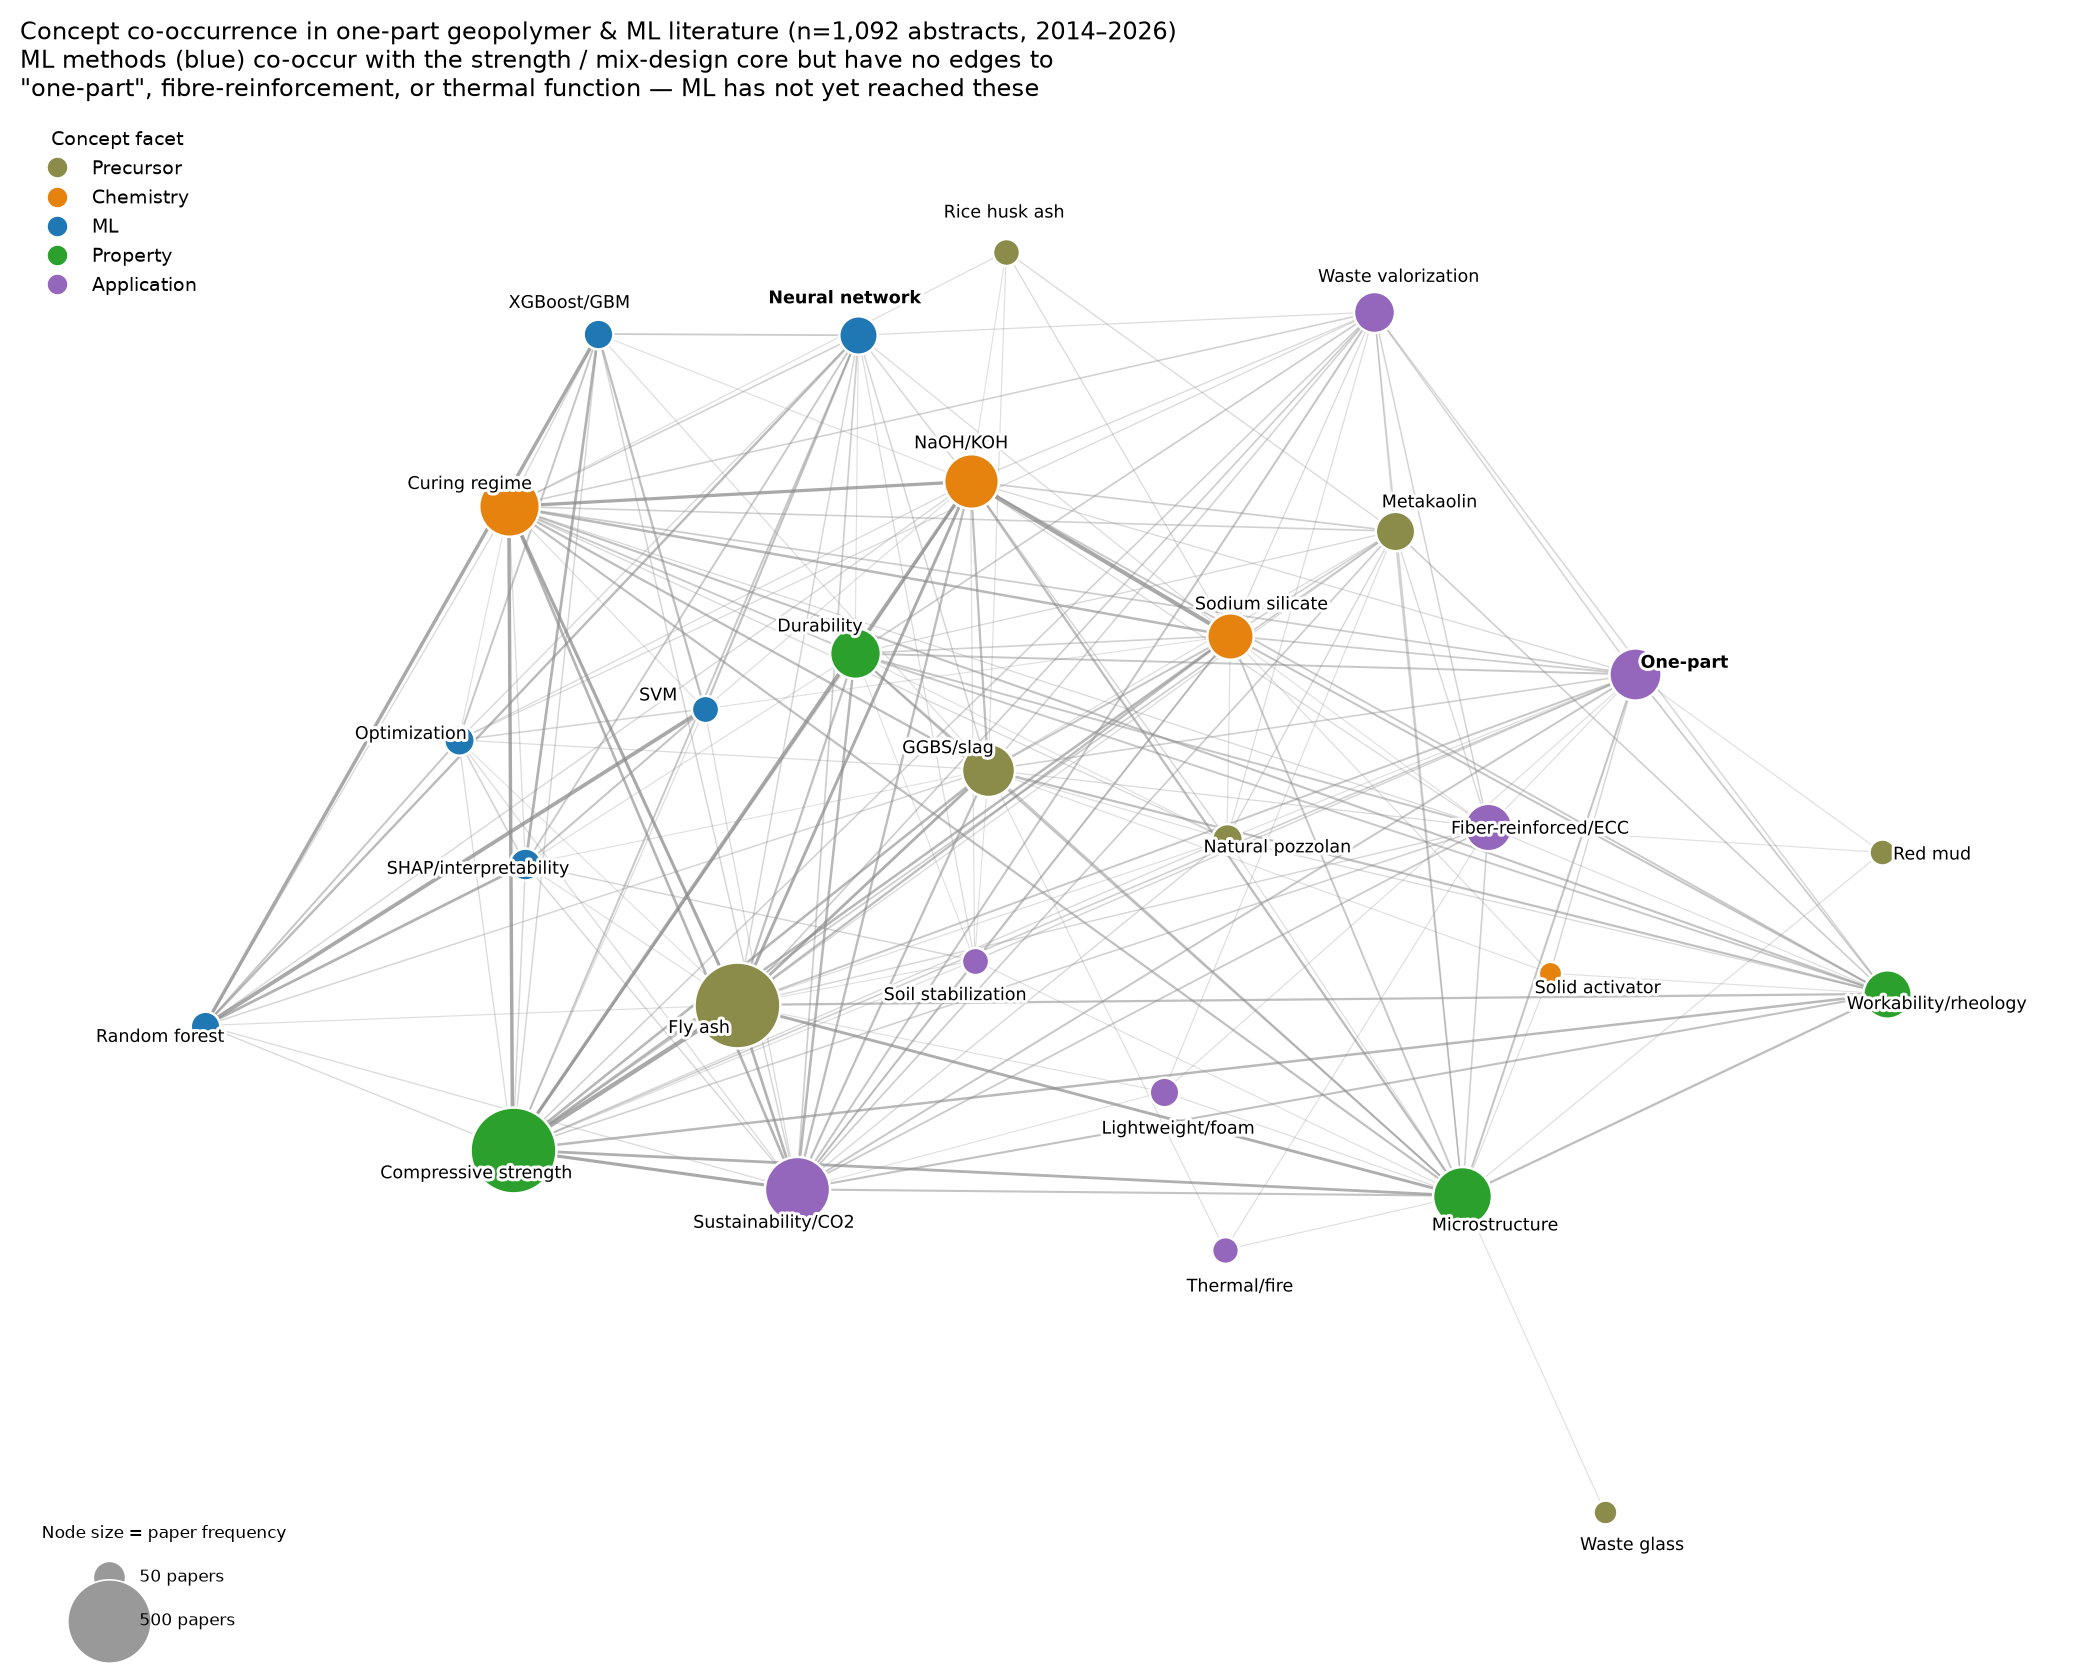
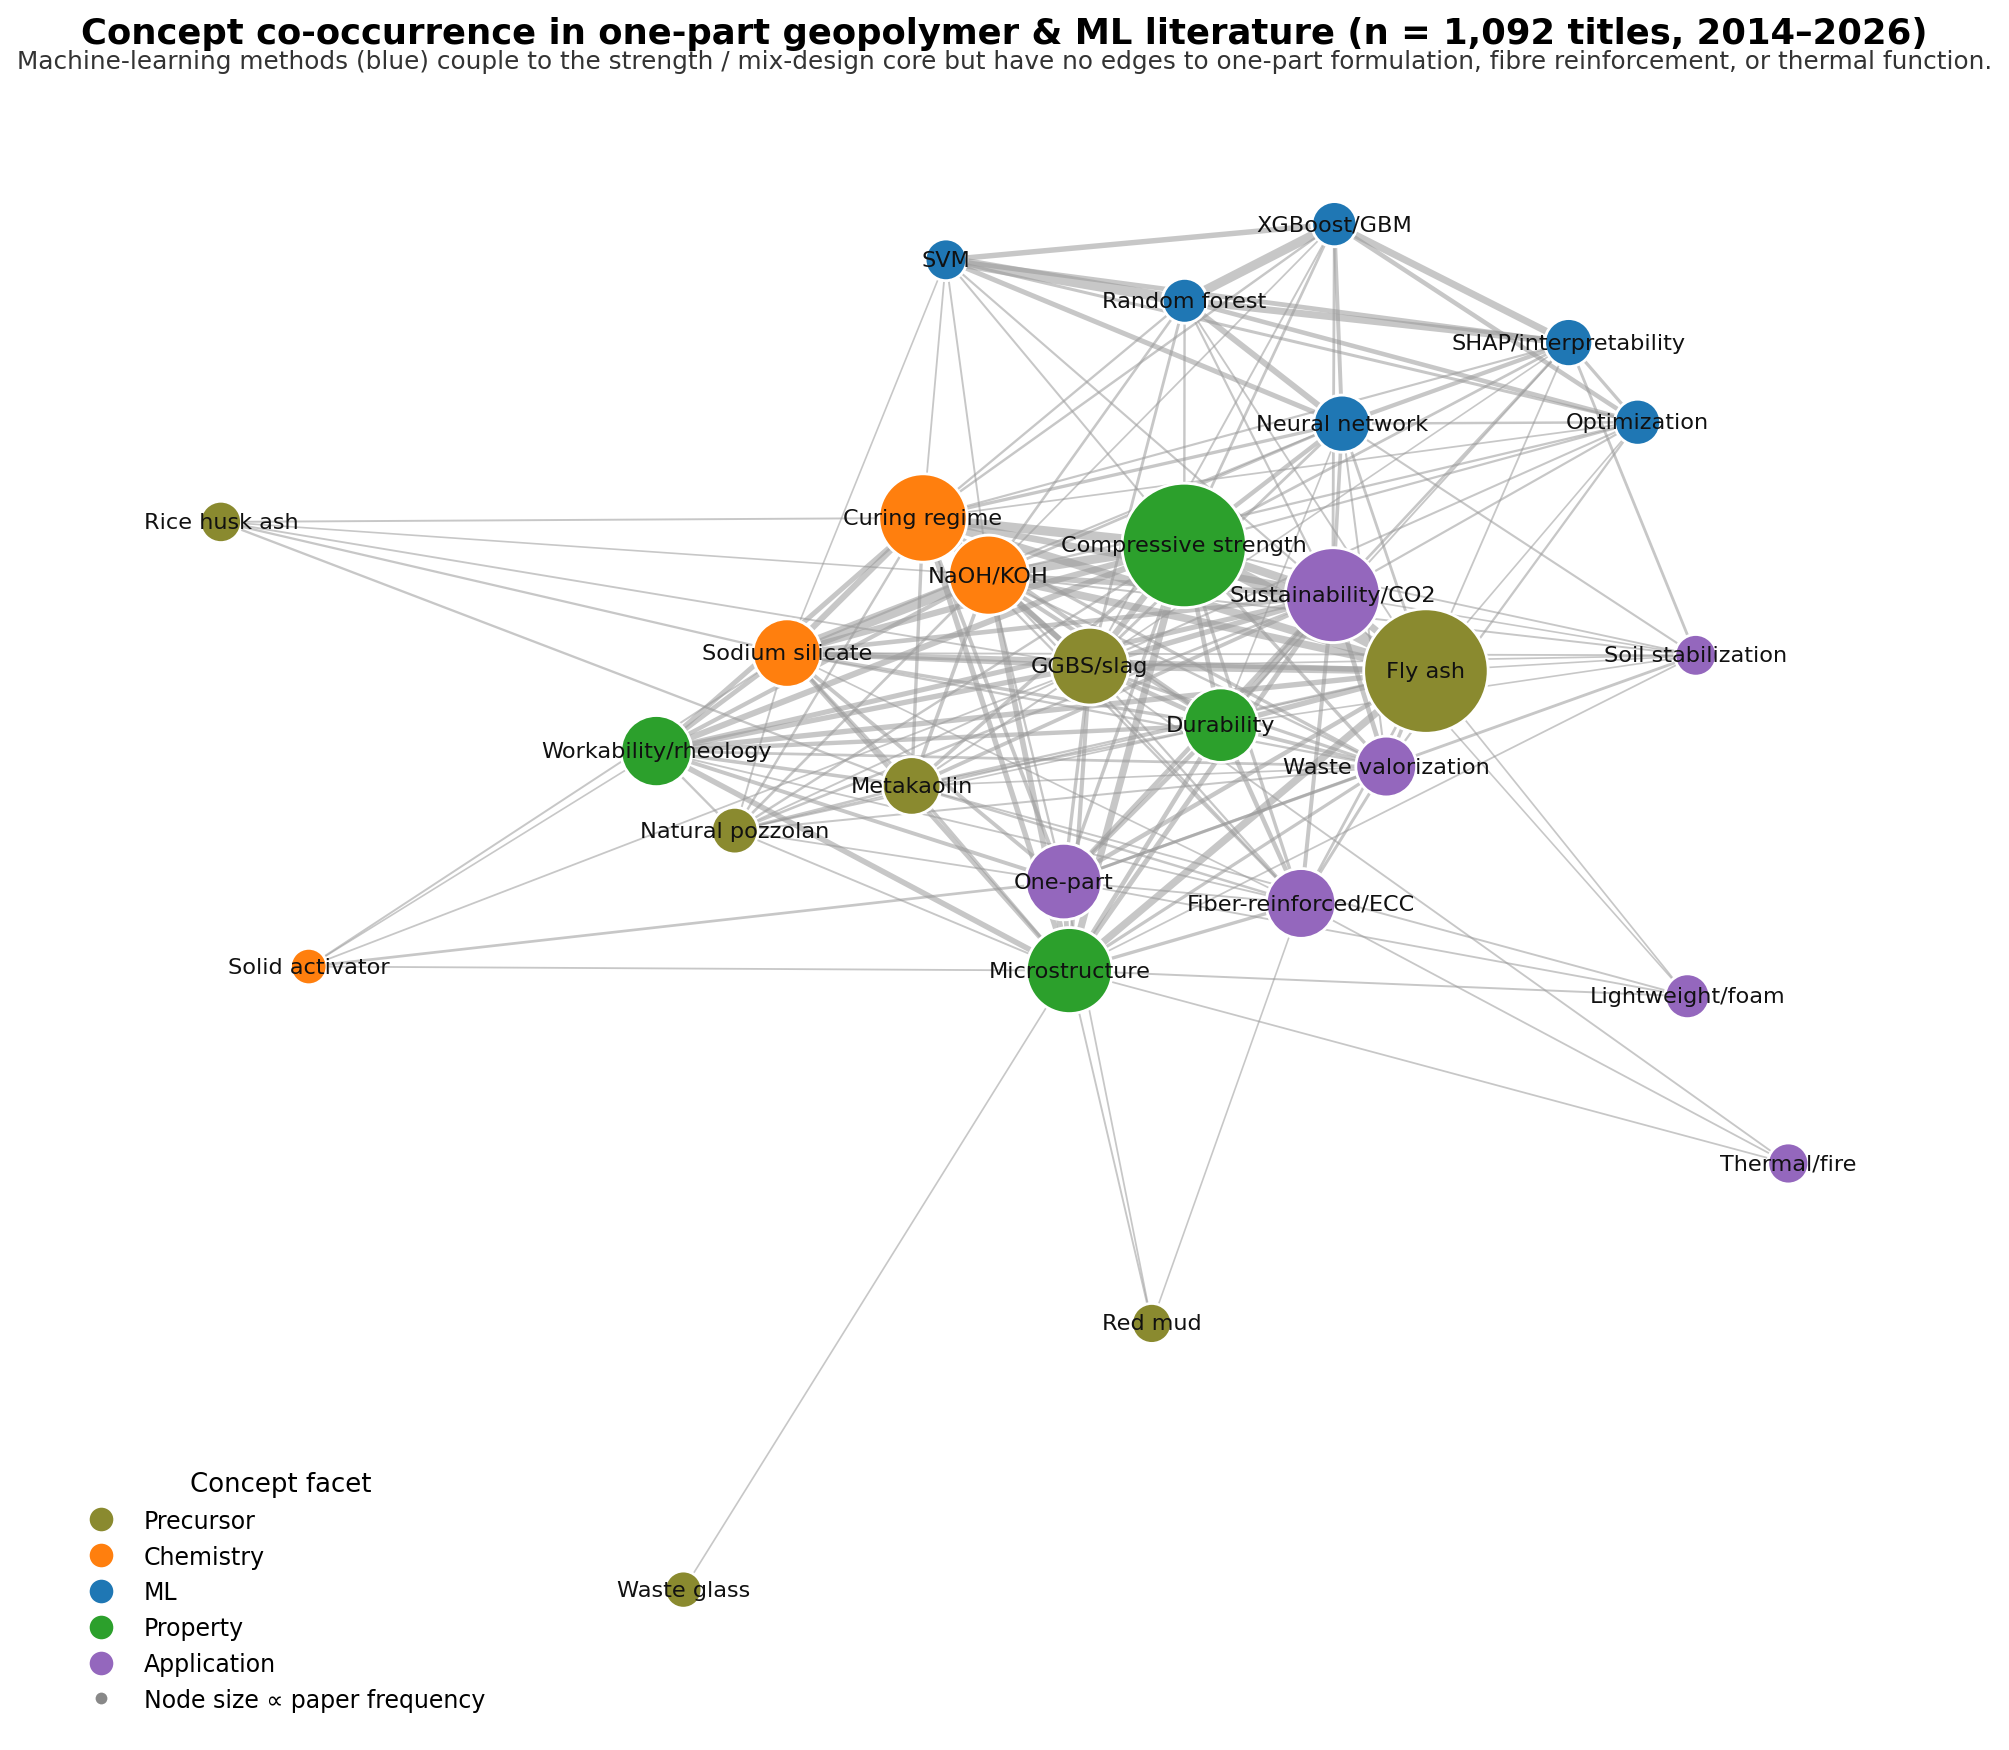
Regenerate Figure 2 from data with corrected title-based label
- Add ml/plot_concept_network.py: reproducible regeneration of the concept
  co-occurrence network from data/concept_network_{nodes,edges}.csv
- Figure title now reads 'n = 1,092 titles' (was 'abstracts'), matching the
  title-based methodology; improved node spacing and legend

diff --git a/ml/plot_concept_network.py b/ml/plot_concept_network.py
@@ -1,0 +1,111 @@
+#!/usr/bin/env python3
+"""
+Regenerate Figure 2 — the concept co-occurrence network — from the archived
+network data (data/concept_network_nodes.csv, data/concept_network_edges.csv).
+
+The corpus stores title-level metadata (abstracts were not retained), so the
+co-occurrence is title-based; the figure title reflects this ("titles", not
+"abstracts").
+
+Usage:
+    python plot_concept_network.py \
+        --nodes ../data/concept_network_nodes.csv \
+        --edges ../data/concept_network_edges.csv \
+        --out ../manuscript/figures/figure2_concept_network.png
+"""
+from __future__ import annotations
+import argparse
+import matplotlib
+matplotlib.use("Agg")
+import matplotlib.pyplot as plt
+from matplotlib.lines import Line2D
+import networkx as nx
+import pandas as pd
+
+SEED = 42
+
+# Facet -> colour (matches the main-text description: ML methods in blue)
+FACET_COLORS = {
+    "Precursor":   "#8a8a2f",  # olive
+    "Chemistry":   "#ff7f0e",  # orange
+    "ML":          "#1f77b4",  # blue
+    "Property":    "#2ca02c",  # green
+    "Application": "#9467bd",  # purple
+}
+FACET_ORDER = ["Precursor", "Chemistry", "ML", "Property", "Application"]
+
+
+def build_graph(nodes: pd.DataFrame, edges: pd.DataFrame) -> nx.Graph:
+    G = nx.Graph()
+    for _, r in nodes.iterrows():
+        G.add_node(r["concept"], facet=r["facet"],
+                   paper_freq=float(r["paper_freq"]))
+    for _, r in edges.iterrows():
+        if r["source"] in G and r["target"] in G:
+            G.add_edge(r["source"], r["target"], weight=float(r["jaccard"]))
+    return G
+
+
+def main():
+    ap = argparse.ArgumentParser()
+    ap.add_argument("--nodes", default="../data/concept_network_nodes.csv")
+    ap.add_argument("--edges", default="../data/concept_network_edges.csv")
+    ap.add_argument("--out", default="../manuscript/figures/figure2_concept_network.png")
+    args = ap.parse_args()
+
+    nodes = pd.read_csv(args.nodes)
+    edges = pd.read_csv(args.edges)
+    G = build_graph(nodes, edges)
+
+    # Spring layout weighted by Jaccard co-occurrence; fixed seed for reproducibility
+    # Unweighted spring layout spreads the strongly-connected hub apart more
+    # evenly than a Jaccard-weighted one (which collapses the core).
+    pos = nx.spring_layout(G, weight=None, k=2.2, iterations=500, seed=SEED)
+
+    freqs = nx.get_node_attributes(G, "paper_freq")
+    facets = nx.get_node_attributes(G, "facet")
+    # node area proportional to paper frequency
+    fmax = max(freqs.values())
+    sizes = [180 + 2600 * (freqs[n] / fmax) for n in G.nodes()]
+    colors = [FACET_COLORS.get(facets[n], "#888888") for n in G.nodes()]
+
+    weights = [G[u][v]["weight"] for u, v in G.edges()]
+    wmax = max(weights)
+    ewidths = [0.3 + 5.0 * (w / wmax) for w in weights]
+
+    fig, ax = plt.subplots(figsize=(13.0, 10.4), dpi=170)
+    nx.draw_networkx_edges(G, pos, width=ewidths, edge_color="#9a9a9a",
+                           alpha=0.55, ax=ax)
+    nx.draw_networkx_nodes(G, pos, node_size=sizes, node_color=colors,
+                           edgecolors="white", linewidths=1.2, ax=ax)
+    nx.draw_networkx_labels(G, pos, font_size=9.5, font_color="#111111", ax=ax)
+
+    ax.set_title(
+        "Concept co-occurrence in one-part geopolymer & ML literature "
+        "(n = 1,092 titles, 2014–2026)", fontsize=15, fontweight="bold",
+        pad=16)
+    ax.text(0.5, 1.005,
+            "Machine-learning methods (blue) couple to the strength / mix-design "
+            "core but have no edges to one-part formulation, fibre reinforcement, "
+            "or thermal function.",
+            transform=ax.transAxes, ha="center", va="bottom", fontsize=10.5,
+            color="#333333")
+
+    # legend: facet colours + node-size note
+    handles = [Line2D([0], [0], marker="o", linestyle="", markersize=11,
+                      markerfacecolor=FACET_COLORS[f], markeredgecolor="white",
+                      label=f) for f in FACET_ORDER]
+    handles.append(Line2D([0], [0], marker="o", linestyle="", markersize=6,
+                          markerfacecolor="#888888", markeredgecolor="white",
+                          label="Node size ∝ paper frequency"))
+    ax.legend(handles=handles, title="Concept facet", loc="lower left",
+              frameon=False, fontsize=10, title_fontsize=11)
+
+    ax.axis("off")
+    fig.tight_layout()
+    fig.savefig(args.out, dpi=170, bbox_inches="tight")
+    print(f"wrote {args.out}")
+
+
+if __name__ == "__main__":
+    main()